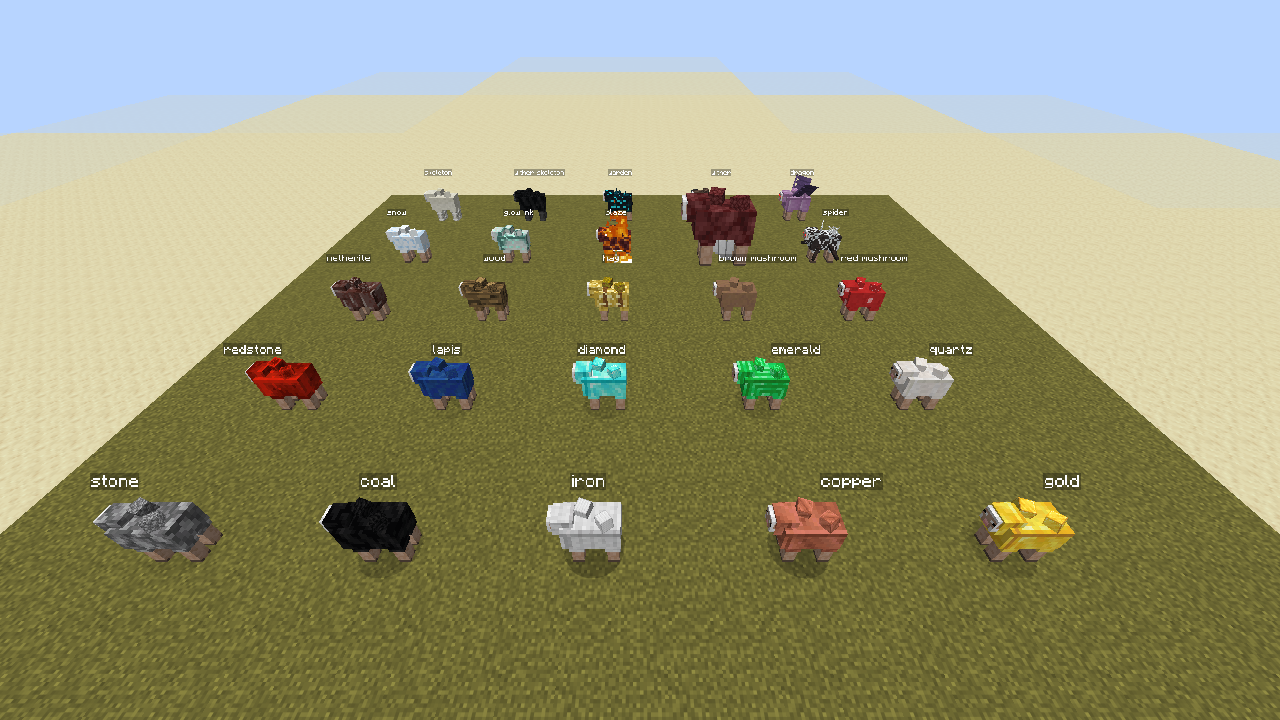
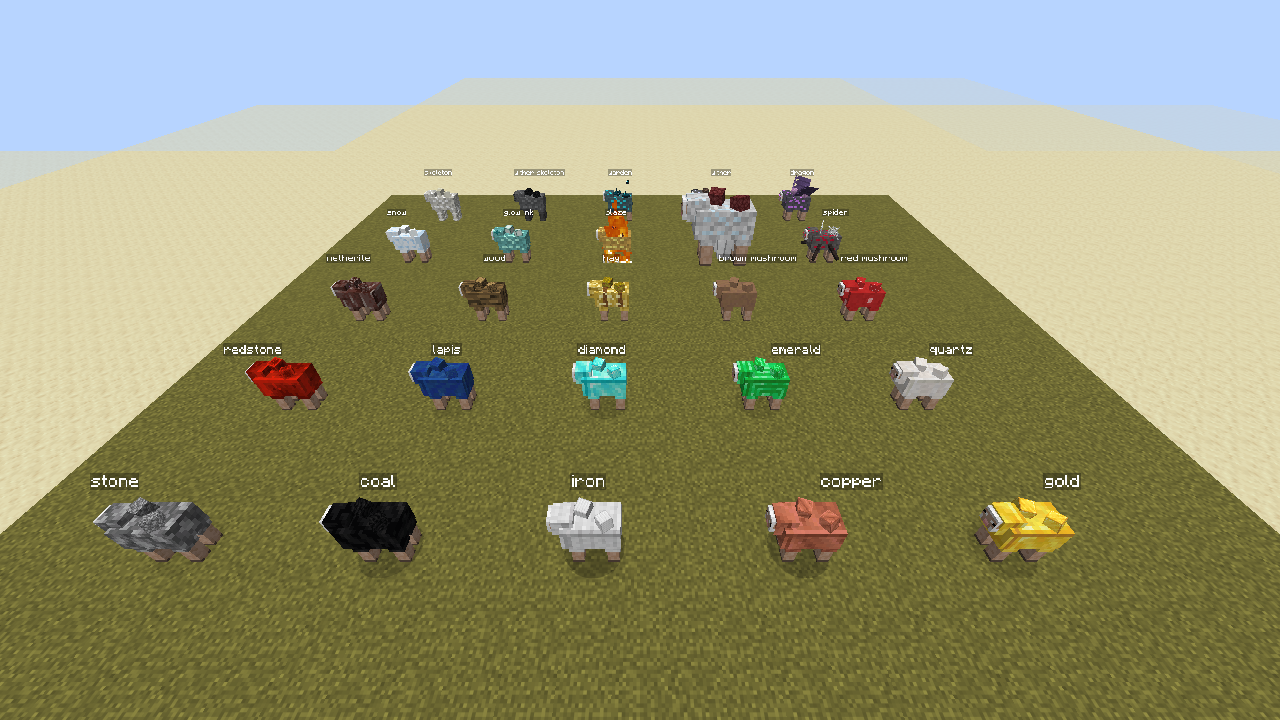
Themed sheep keep their own designs
The block fleece is now only for plain resource sheep. The themed sheep
(anything with extra parts, a skull, a glow, flames or sculk: the Ghast,
Spider, Wither, Dragon, Blaze, Warden, Glow Ink, Skeleton and Wither
Skeleton sheep) keep their original tinted fleeces and sparkle.

Claude-Session: https://claude.ai/code/session_012iurxobutw9xMP3SqHHLFE

diff --git a/src/main/java/com/jax3/barelyfunctionalcontraptions/sheep/client/InfusedWoolLayer.java b/src/main/java/com/jax3/barelyfunctionalcontraptions/sheep/client/InfusedWoolLayer.java
@@ -155,15 +155,16 @@ public class InfusedWoolLayer extends RenderLayer<SheepRenderState, SheepModel> 
             }
         }
         SheepAppearance appearance = resource.get().appearance();
-        // A fleece made of its resource's block (a Redstone sheep wears Block of Redstone), drawn untinted, unless
-        // the resource has a hand-drawn fleece of its own.
-        if (!melon && appearance.woolTexture().isEmpty() && ModConfigs.getBool(ModConfigs.CLIENT.blockTexturedWool)) {
+        // A fleece made of its resource's block (a Redstone sheep wears Block of Redstone), drawn untinted and without
+        // the sparkle (the block has its own pattern). Only for plain resource sheep: themed sheep (extra parts, a skull,
+        // glowing, burning, sculk) and ones with a hand-drawn fleece keep their own design.
+        if (!melon && appearance.woolTexture().isEmpty() && appearance.features().isEmpty() && appearance.skullTexture().isEmpty()
+                && ModConfigs.getBool(ModConfigs.CLIENT.blockTexturedWool)) {
             Optional<Identifier> blockWool = BlockWoolTextures.textureFor(resource.get());
             if (blockWool.isPresent()) {
                 appearance = appearance.withWoolTexture(blockWool.get());
                 wool = -1;
-                // The block has its own pattern: no sparkle over it, except where the sparkle glows (glow ink, sculk).
-                if (!appearance.has(Feature.GLOWING) && !appearance.has(Feature.SCULK)) accent = 0;
+                accent = 0;
             }
         }
         if (melon) {

diff --git a/src/main/java/com/jax3/barelyfunctionalcontraptions/sheep/config/ModConfigs.java b/src/main/java/com/jax3/barelyfunctionalcontraptions/sheep/config/ModConfigs.java
@@ -894,7 +894,7 @@ public final class ModConfigs {
                     .define("showSheepSparkleOverlay", true);
             showResourceGrowths = b.comment("Render small blocks of the infused resource growing out of the sheep's fleece (fewer as the infusion is used up).")
                     .define("showResourceGrowths", true);
-            blockTexturedWool = b.comment("Infused sheep wear a fleece made from their resource's block (Block of Redstone, Oak Log...); off, a plain fleece in the resource's colour.")
+            blockTexturedWool = b.comment("Infused sheep wear a fleece made from their resource's block (Block of Redstone, Oak Log...; not the themed sheep, which keep their own designs); off, a plain fleece in the resource's colour.")
                     .define("blockTexturedWool", true);
             detailedWoolTooltips = b.comment("Show separation output, energy and time in resource wool tooltips (otherwise only while holding Shift).")
                     .define("detailedWoolTooltips", false);

diff --git a/docs/REFERENCE.md b/docs/REFERENCE.md
@@ -258,7 +258,7 @@ Every sheep is infused at a powered **Infusion Altar** (below): the resource in 
 
 - Right-clicking a sheep with a resource no longer infuses it; the action bar points you to the altar. A server can bring hand feeding back with `[infusion_altar] handFeedingMaxTier` (1 = tier 1 sheep by hand, as before).
 - You'll see coloured particles and hear a chime when the sheep takes the resource.
-- The sheep's fleece becomes **its resource's block**: a Redstone sheep wears a fleece of Block of Redstone, an Iron sheep Block of Iron, a Wood sheep oak bark, a Warden sheep sculk, a Blaze sheep magma. It's the block that grows out of it (below), shaded by the wool's fluff so it still looks woolly. The fleece is made on your client from the block's own texture, so data-pack resources, modded blocks and resource packs all work; where a block is see-through (the Spider sheep's cobweb), the wool shows through in the resource's colour. Resources with a hand-drawn fleece (Hay, Snow) keep theirs, and lambs keep a plain fleece in the resource's colour. Turn it off with the client config `blockTexturedWool` for the old plain fleece in the resource's colour with glinting strands.
+- The sheep's fleece becomes **its resource's block**: a Redstone sheep wears a fleece of Block of Redstone, an Iron sheep Block of Iron, a Wood sheep oak bark, a Lapis sheep Block of Lapis. It's the block that grows out of it (below), shaded by the wool's fluff so it still looks woolly. The fleece is made on your client from the block's own texture, so data-pack resources, modded blocks and resource packs all work; where a block is see-through, the wool shows through in the resource's colour. The **themed sheep** (the Ghast, Spider, Wither, Dragon, Blaze, Warden, Glow Ink, Skeleton and Wither Skeleton sheep: anything with extra parts, a skull, a glow, flames or sculk) keep their own designs, resources with a hand-drawn fleece (Hay, Snow) keep theirs, and lambs keep a plain fleece in the resource's colour. Turn it off with the client config `blockTexturedWool` for the old plain fleece in the resource's colour with glinting strands.
 - **Small blocks of the resource grow out of it**: Blocks of Iron on an iron sheep, Blocks of Diamond on a diamond sheep, Red Mushroom Blocks on a red mushroom sheep, Cobblestone on a stone sheep. The cluster shrinks as the infusion is sheared away. The block is the resource's storage block (`<name>_block`, found from the feeding item or the separator output), or the item itself when it is already a block (Oak Log). A data pack can choose another with `growth_item`.
 - With the plain fleece (`blockTexturedWool` off), its dye colour still shows through slightly, so a blue diamond sheep looks different from a white one.
 - **Each infusion lasts 100 shearings by default**, whatever the resource (`infusionUsesOverride` in the config). Set that to `-1` to use each resource's own count instead: iron, gold, copper, redstone, lapis and coal last **9** shearings, and diamond, emerald, netherite scrap, cobblestone, oak log, quartz and the mushrooms last **1** or **3**.
@@ -1489,8 +1489,8 @@ Changes to `waterPerSecond` and `capacity` apply to reservoirs that are already 
 | `ambientParticles` | Particles around infused sheep |
 | `dyeTintStrength` | How strongly the dye colour shows through infused wool |
 | `showResourceGrowths` | Small blocks of the resource growing out of infused fleece |
-| `showSheepSparkleOverlay` | The glinting overlay on infused fleece (the plain fleece; block fleeces only keep it where it glows) |
-| `blockTexturedWool` | Infused sheep wear a fleece made of their resource's block (default on); off, a plain fleece in the resource's colour |
+| `showSheepSparkleOverlay` | The glinting overlay on infused fleece (not on block fleeces) |
+| `blockTexturedWool` | Infused sheep wear a fleece made of their resource's block (default on; not the themed sheep); off, a plain fleece in the resource's colour |
 | `detailedWoolTooltips` | Always show separator details in wool tooltips |
 | `detailedMachineTooltips` | Extra detail in the separator GUI tooltips |
 
@@ -1657,7 +1657,7 @@ Together with the `barelyfunctionalcontraptions:separating` recipe type above, t
 Shearing drops are hooked through a global loot modifier on loot tables whose path starts with `shearing/`. That means hand shears, dispensers and modded shears are all covered, along with modded sheep that use their own `shearing/...` table. Infused-fleece rendering is applied to any entity whose renderer extends the vanilla `SheepRenderer`.
 
 #### Custom wool textures
-The 12 built-in wools have hand-made textures. Any other resource uses a greyscale wool texture tinted with its `wool_color` and `accent_color`, so it never shows a missing texture. (That's the wool item; a data-pack resource's sheep wear a fleece made of its block, like the built-in ones, worked out from the block's texture.)
+The 12 built-in wools have hand-made textures. Any other resource uses a greyscale wool texture tinted with its `wool_color` and `accent_color`, so it never shows a missing texture. (That's the wool item; a data-pack resource's sheep wear a fleece made of its block, like the built-in ones, worked out from the block's texture, unless its `appearance` gives it features or a skull.)
 
 To give a data-pack resource its own icon, ship a resource pack that overrides `assets/barelyfunctionalcontraptions/items/resource_wool.json` and adds a `case` for your resource id. The file is a `minecraft:select` on the `barelyfunctionalcontraptions:sheep_resource` component.
 

diff --git a/TESTING.md b/TESTING.md
@@ -48,7 +48,7 @@ Environment for the results below: Minecraft 26.3, NeoForge 26.3.0.101, JEI 31.1
 | Machine Status Panel in the test world | `extend_world` on *BFC Test World*, then `world_tour` on a copy | ✅ The 3x3 screen in cell (4, 5) linked the nearest of each kind within range: 20 machines (the Echo Chamber, its meter and cubes, a Herd Counter, the Thermal Reaction Chamber, a Fluid Reservoir, a Powered Furnace, the Snow Sheep Chiller, a Mycelial Generator, Automatic Shears, the Grass Seeder, a Wool Burner, a Mechanical Separator, the Blaze Sheep Furnace, the Infusion Altar, the Sheep Treadmill, a Zero Point Energy Module, the Wool Packer, a Glow Panel and the Static Generator, 111 blocks away). On the tour they read live (Echo Chamber listening at 18.1k FE/t, the chamber reacting, the seeder all green) and the lamp is lit for the chiller, out of water |
 | Wool-Lined Crates in the test world | `extend_world` on *BFC Test World*, then `world_tour` on a copy | ✅ The platform grew a seventh row of cells (to z = 192, spawn 73 35 190) and cell (0, 6) has the storeroom: fourteen crates, each lined the colour of its item (coal dark, copper orange, gold yellow, diamonds cyan, lapis blue, emeralds green, redstone red), with their items and counts, the bulging oak logs, the locked ones with padlocks; the hopper-fed redstone crate burst during the tour (its redstone on the floor) and was filled back to 2,048; the strapped one stayed full and locked. The status panel shows 21 machines, the crate among them |
 | Wool-Lined Crate JEI and Jade | `-PharnessScene=crate` | ✅ Jade on the locked lime crate: *Lime Wool: 900 / 6,144 (14%)*, *Locked to it*, *2 / 4 Wool Bales: 96 stacks*, *Lined: Blue*. JEI's page shows the item into the crate, the comparator, the three sneak-click upgrades with their labels and the burst warning |
-| Infused sheep wear their blocks | `./gradlew runClient -PscreenshotHarness -PharnessScene=block_wool` | ✅ One sheep of each of the 25 built-in resources, each wearing a fleece of its block: Stone (cobblestone), Coal, Iron, Copper, Gold, Redstone, Lapis, Diamond, Emerald and Quartz blocks, ancient debris on Netherite, oak bark on Wood, the mushroom blocks, sea lantern on Glow Ink (glowing), magma on Blaze, netherrack on the Ghast sheep, cobweb over white wool on the Spider sheep, bone block, coal block on the Wither Skeleton, sculk (with its glowing strands) on the Warden, soul sand on the Wither, purpur on the Dragon; Hay and Snow keep their hand-drawn fleeces. No sparkle over the blocks |
+| Infused sheep wear their blocks | `./gradlew runClient -PscreenshotHarness -PharnessScene=block_wool` | ✅ One sheep of each of the 25 built-in resources. The plain ones wear a fleece of their block: Stone (cobblestone), Coal, Iron, Copper, Gold, Redstone, Lapis, Diamond, Emerald and Quartz blocks, ancient debris on Netherite, oak bark on Wood, and the mushroom blocks, with no sparkle over them. The themed sheep keep their own designs (the Ghast white with its tentacles, Spider, Wither, Dragon, Blaze, Warden, Glow Ink, Skeleton, Wither Skeleton), and Hay and Snow their hand-drawn fleeces |
 | Crate Controller in the test world | `extend_world` on *BFC Test World*, then `world_tour` on a copy | ✅ On top of the storeroom wall it took in all 15 crates by touch; its hopper fed the chest's cobblestone into the cobblestone crate (+137 during the tour) and 64 bread into its empty crate, so it reads *No empty crates* (amber) at 36%. The status panel shows 22 machines, the controller among them |
 | Crate Controller JEI and Jade | `-PharnessScene=crate_controller` | ✅ Jade: *Crates: 7 / 64*, *4,948 / 14,336 items (34%)*, *Empty crates: 0*, *Full, could burst: 1*, *Bulging: 1*, *Signal 5*, and Jade's list of every item in the store; on a crate, *In a Crate Controller's store*. JEI's page shows the crate and hopper/pipe in, the comparator and panel out, the three steps and the strain warning |
 | Crate Controller in the real client | `./gradlew runClient -PscreenshotHarness -PharnessScene=crate_controller` | ✅ Built into a wall of five crates, it took them in by touch (brass tags on all five); real wrench clicks (controller, a crate across the room, controller) linked that crate and the one on top of it: 7 crates. 200 wheat put in through it went to the empty far crate; the full redstone crate made it read *Could burst* (red on its front, and on the status panel's report); its front reads *7 crates* and *34%* |

diff --git a/CHANGELOG.md b/CHANGELOG.md
@@ -105,12 +105,14 @@ A thin wall screen that shows how your machines are doing, all in one place. It 
 
 ### Sheep wear their blocks
 - An infused sheep's fleece is now **its resource's block**: Block of Redstone on a Redstone sheep, Block of Iron on an
-  Iron sheep, oak bark on a Wood sheep, sculk on a Warden sheep, magma on a Blaze sheep, mushroom blocks on the
-  mushroom sheep. It's the block that grows out of it, shaded by the wool's fluff.
+  Iron sheep, oak bark on a Wood sheep, mushroom blocks on the mushroom sheep. It's the block that grows out of it,
+  shaded by the wool's fluff, and without the glinting overlay (the blocks have their own pattern).
 - It's made on your client from the block's own texture, so data-pack resources, modded blocks and resource packs
-  all work. Hay and Snow keep their hand-drawn fleeces; lambs keep a plain one in the resource's colour.
-- The glinting overlay is gone from block fleeces (the blocks have their own pattern), except where it glows (Glow
-  Ink, the Warden's sculk). Client config `blockTexturedWool` (on) brings back the old plain fleece when off.
+  all work.
+- The **themed sheep** keep their own designs: the Ghast, Spider, Wither, Dragon, Blaze, Warden, Glow Ink, Skeleton
+  and Wither Skeleton sheep (anything with extra parts, a skull, a glow, flames or sculk). Hay and Snow keep their
+  hand-drawn fleeces; lambs keep a plain one in the resource's colour.
+- Client config `blockTexturedWool` (on) brings back the old plain fleece when off.
 
 ### Fixes
 - **Static Generator window:** the dome's charge bar no longer flashes while it's overcharged.
